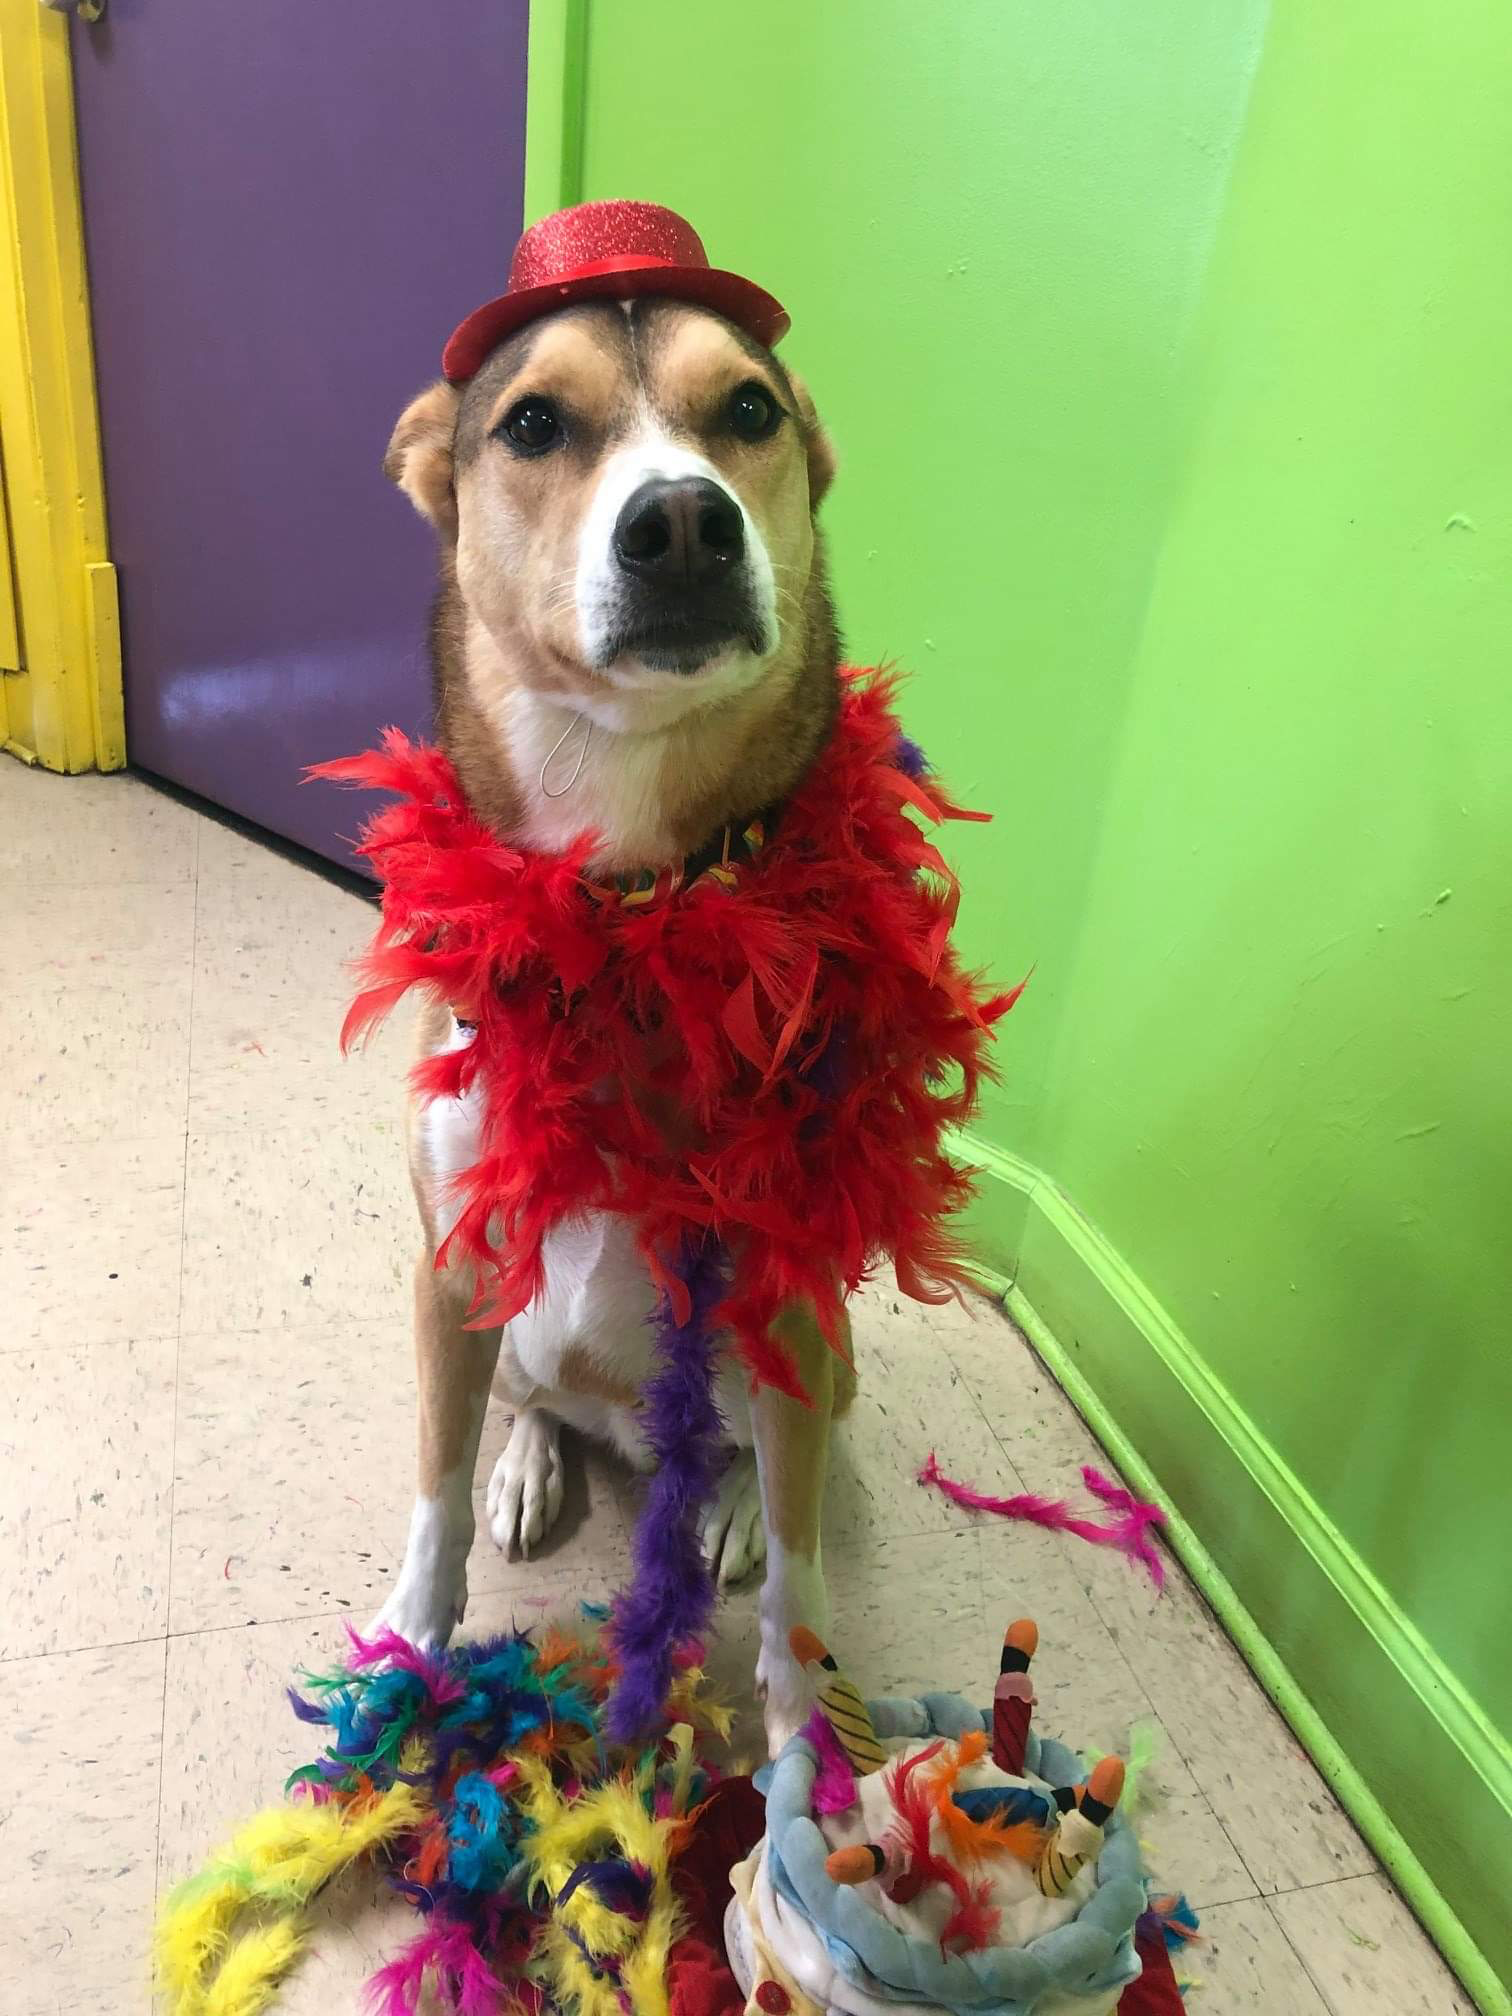
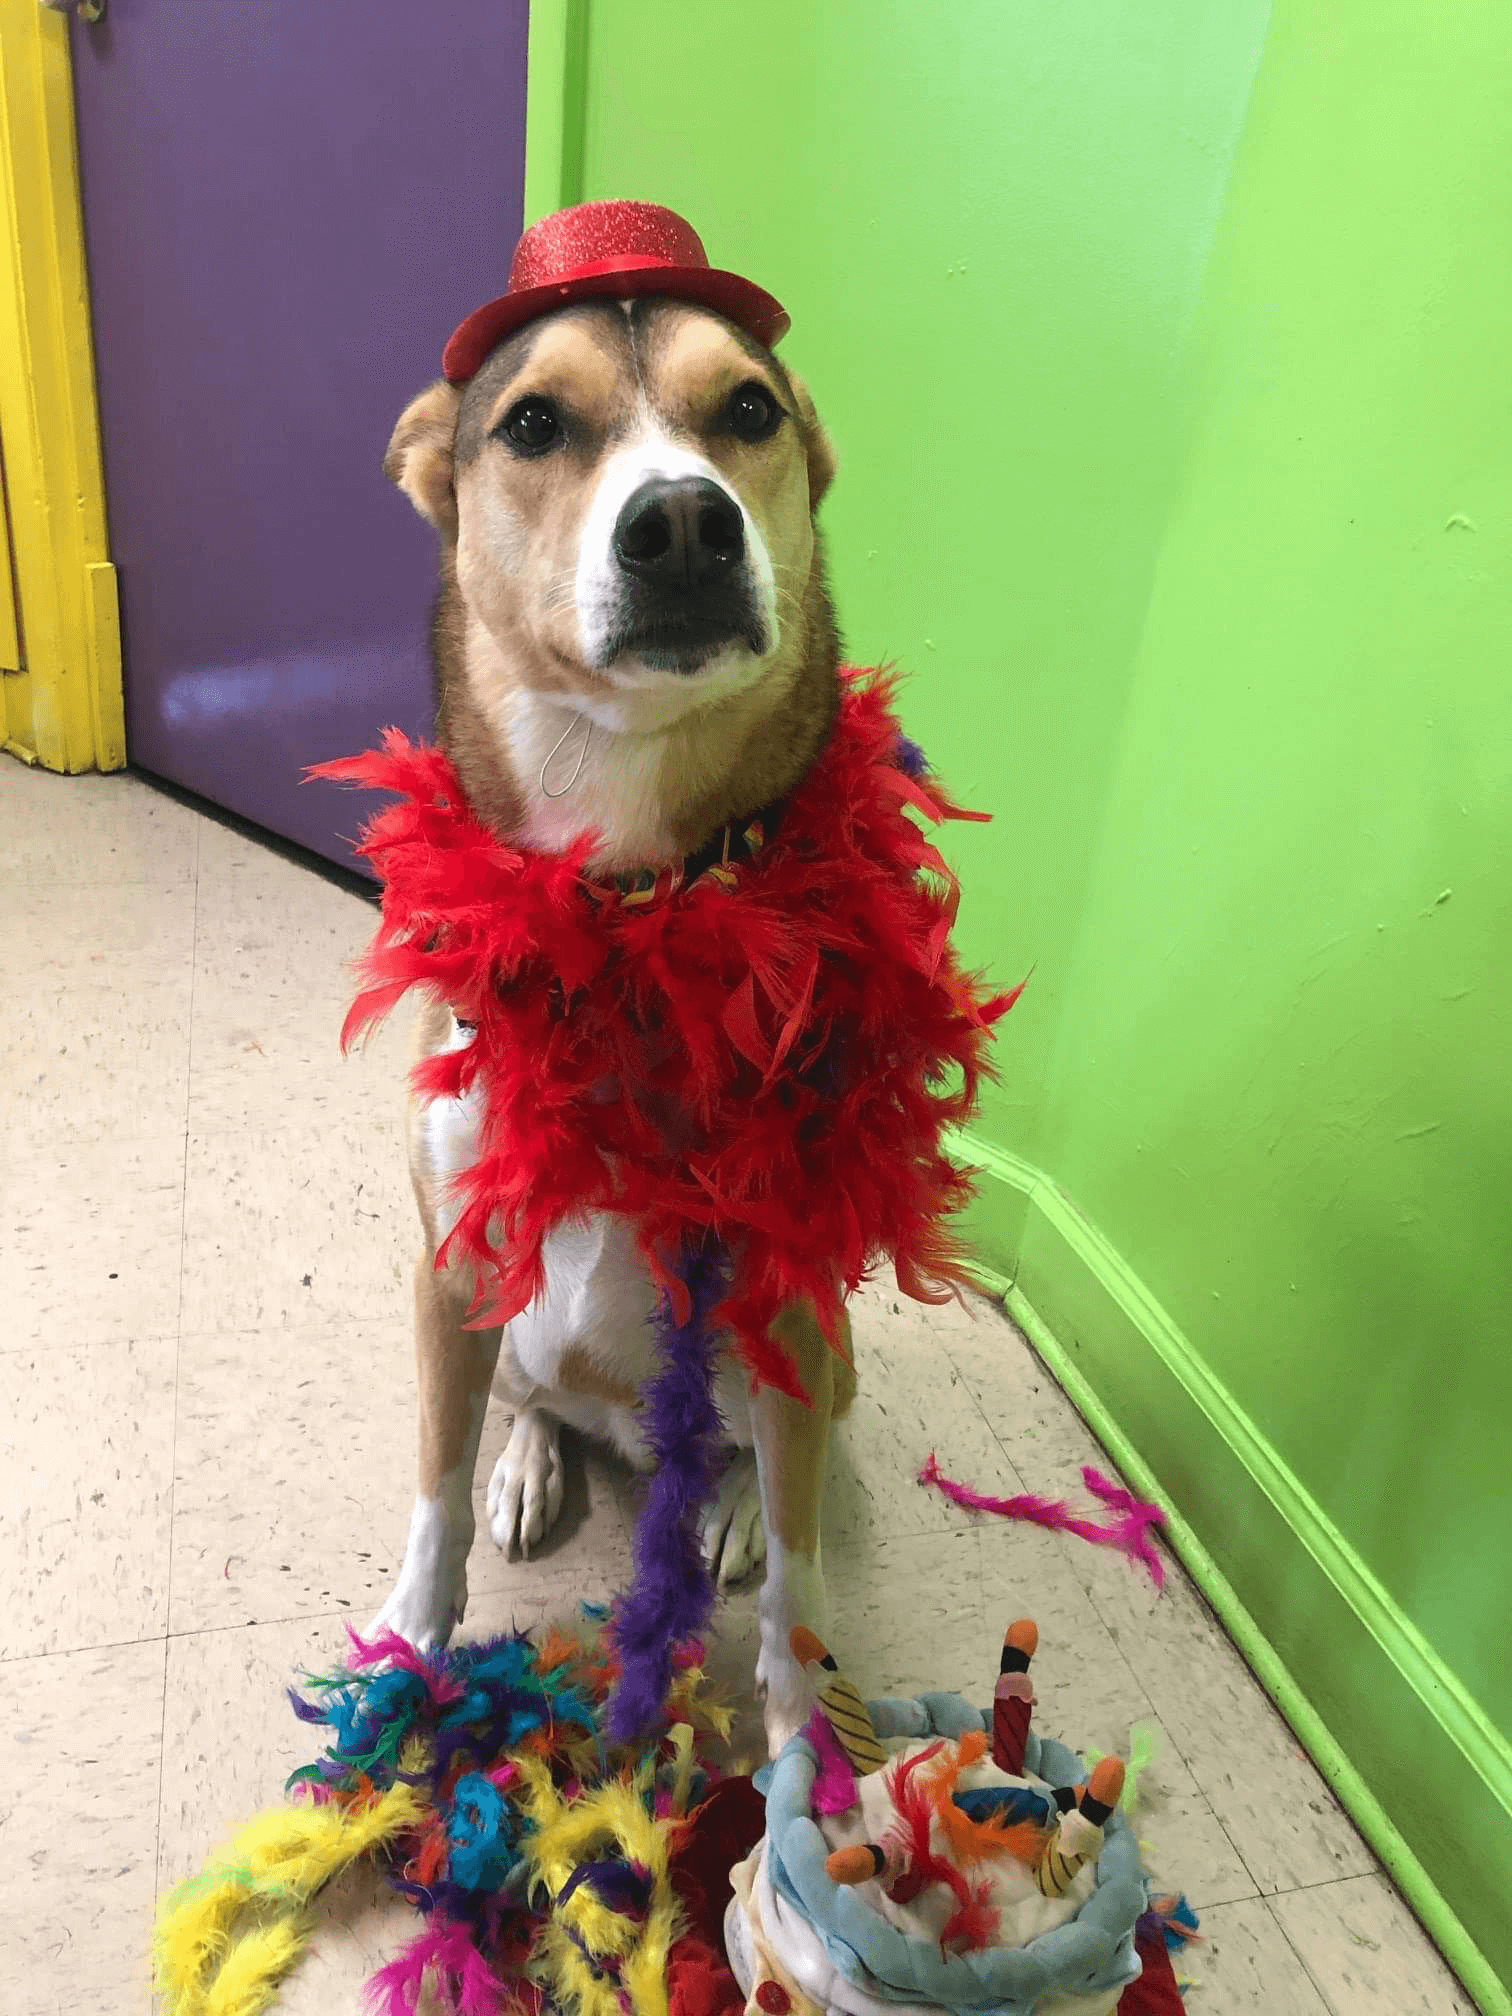
optimize: compress images

Changed region(s): [[0.2176, 0.8125, 0.2798, 0.875]]

diff --git a/src/components/about.tsx b/src/components/about.tsx
@@ -3,7 +3,7 @@ import React, { useState } from 'react';
 import Modal from 'react-modal';
 import '../styles/App.css';
 import BirthdayLuke from '../images/birthday-luke.png';
-import SamLuke from '../images/sam-luke.png';
+import SamLuke from '../images/sam-luke.jpeg';
 import PuppyLuke from '../images/puppy-luke.png';
 import PeakLuke from '../images/peak-luke.png';
 
